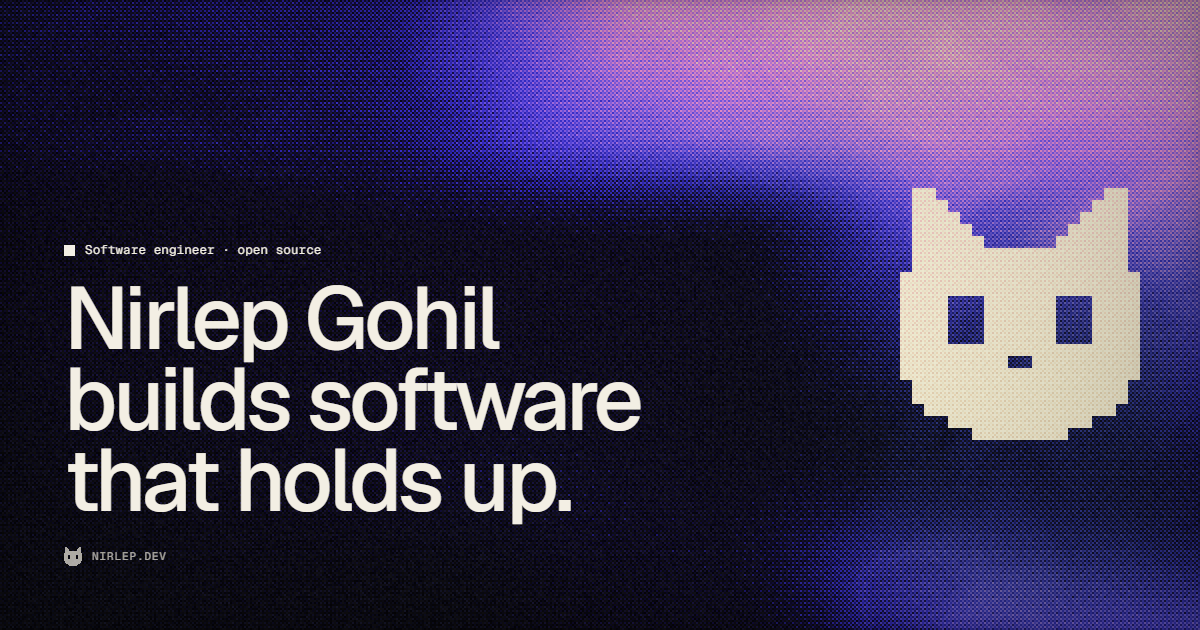
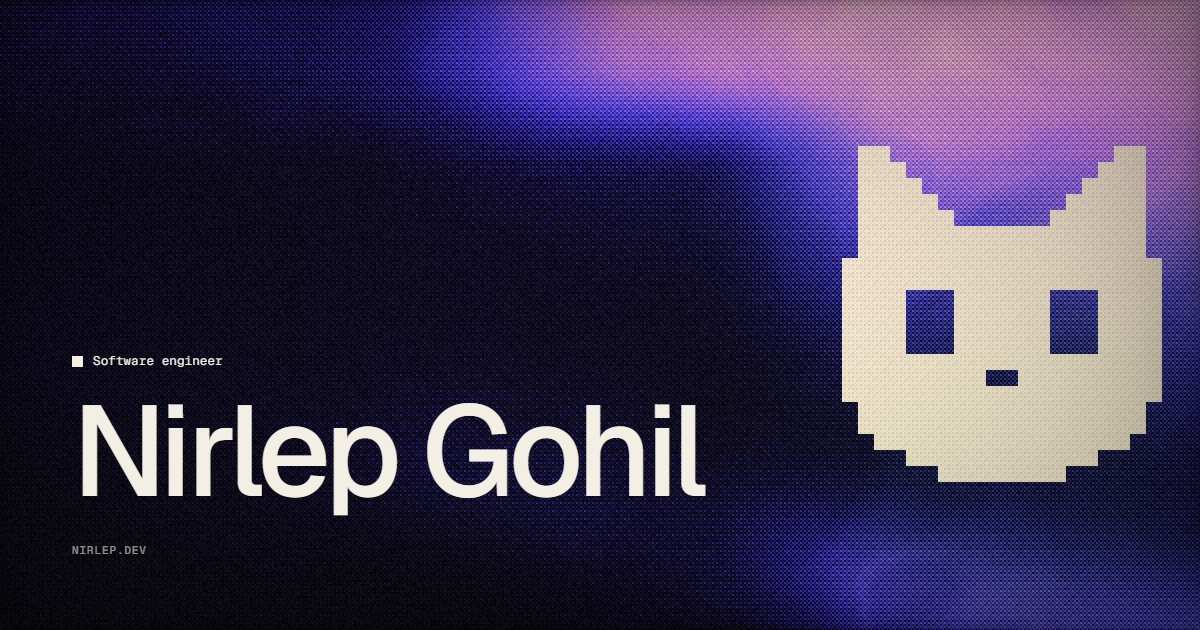
feat(meta): new OG image (name + role + cat), plain descriptions
- public/og.png regenerated from a dev-only /dev/og composition (404 in prod):
  hero field, cat ornament, "Software engineer / Nirlep Gohil / nirlep.dev"
- site + OG/Twitter descriptions no longer lean on the "slop" line; the hero keeps it

diff --git a/src/app/layout.tsx b/src/app/layout.tsx
@@ -12,21 +12,21 @@ export const metadata: Metadata = {
   metadataBase: new URL(SITE.url),
   title: "Nirlep Gohil | Software Engineer",
   description:
-    "Nirlep Gohil builds distinguishable software in the era of slop — considered products, tools and open source across Rust, TypeScript, Go and the web.",
+    "Software engineer building products, tools and open source — an AI agent for Discord, native Windows apps, a self-hosted image host, CLIs. Rust, TypeScript, Go and the web.",
   authors: [{ name: SITE.name, url: "https://github.com/nirlep5252" }],
   creator: SITE.name,
   keywords: ["software engineer", "full-stack developer", "rust", "typescript", "react", "open source"],
   openGraph: {
     title: "Nirlep Gohil | Software Engineer",
-    description: "Distinguishable software in the era of slop — considered products, tools and open source.",
+    description: "Software engineer. Products, tools and open source — Rust, TypeScript, Go and the web.",
     type: "website",
     url: SITE.url,
-    images: [{ url: "/og.png", width: 1200, height: 630, alt: "nirlep.dev" }],
+    images: [{ url: "/og.png", width: 1200, height: 630, alt: "Nirlep Gohil — Software engineer" }],
   },
   twitter: {
     card: "summary_large_image",
     title: "Nirlep Gohil | Software Engineer",
-    description: "Distinguishable software in the era of slop — considered products, tools and open source.",
+    description: "Software engineer. Products, tools and open source — Rust, TypeScript, Go and the web.",
     creator: SITE.handle,
     images: ["/og.png"],
   },

diff --git a/src/app/dev/og/page.tsx b/src/app/dev/og/page.tsx
@@ -1,0 +1,29 @@
+import { notFound } from "next/navigation";
+import { Ornament } from "@/components/emulsion/Ornament";
+import { HERO_PARAMS } from "@/lib/emulsion/renderer";
+import { SITE } from "@/lib/site";
+
+/**
+ * Dev-only OG composition. Regenerate public/og.png with a 1200×630 viewport screenshot:
+ *   agent-browser set viewport 1200 630 && agent-browser open http://localhost:3000/dev/og
+ *   agent-browser wait 4000 && agent-browser screenshot public/og.png
+ */
+export default function OgPage() {
+  if (process.env.NODE_ENV === "production") notFound();
+  return (
+    <div className="fixed inset-0 z-[100] surface-ink overflow-hidden" style={{ width: 1200, height: 630 }}>
+      <Ornament
+        className="absolute inset-0"
+        seed={0.12}
+        rect={[0.72, 0.22, 0.95, 0.78]}
+        interactive={false}
+        params={{ ...HERO_PARAMS, seed: 0.12, darkZone: [0, 0, 0.58, 0.72], darkZoneAmt: 0.7, flow: 0, ditherFps: 0 }}
+      />
+      <div className="absolute left-[72px] bottom-[72px] text-paper">
+        <div className="eyebrow text-paper mb-6">Software engineer</div>
+        <div className="display text-[128px] leading-[0.92]">Nirlep Gohil</div>
+        <div className="meta text-paper/60 mt-8">{SITE.domain}</div>
+      </div>
+    </div>
+  );
+}
